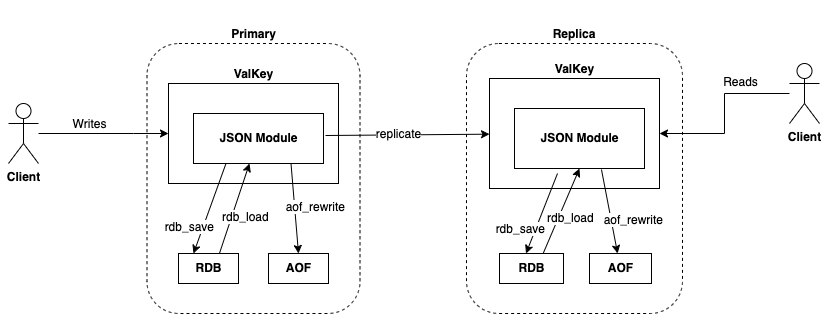
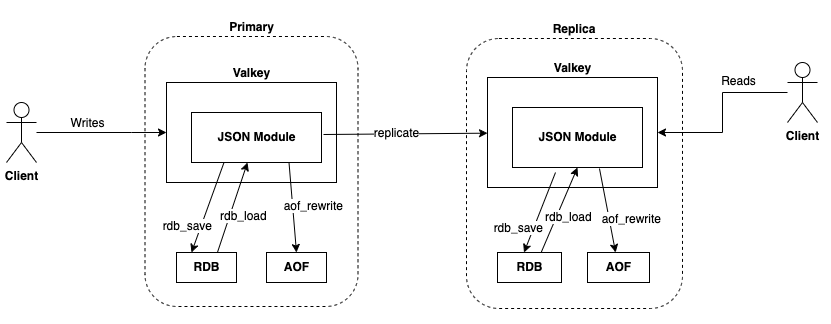
Updated based on review feedback

diff --git a/JSON.md b/JSON.md
@@ -3,76 +3,37 @@ RFC: 2
 Status: Proposed
 ---
 
-# ValKey JSON Module RFC
+# ValkeyJSON RFC
 
 ## Abstract
 
-The proposed ValKey JSON module supports the native JavaScript Object Notation (JSON) format to encode complex datasets inside 
-OSS ValKey. It is compliant with [RFC7159](http://www.ietf.org/rfc/rfc7159.txt) and [ECMA-404](http://www.ecma-international.org/publications/standards/Ecma-404.htm) 
+The proposed Valkey JSON module, named ValkeyJSON, supports the native JavaScript Object Notation (JSON) format to encode 
+complex datasets inside Valkey. It is compliant with [RFC7159](http://www.ietf.org/rfc/rfc7159.txt) and [ECMA-404](http://www.ecma-international.org/publications/standards/Ecma-404.htm) 
 JSON data interchange standard. With this feature, users can natively store, query, and modify JSON data structures in 
-ValKey using the popular [JSONPath query language](https://www.ietf.org/archive/id/draft-goessner-dispatch-jsonpath-00.html). 
-The module should be API-compatible and RDB-compatible with Redis Ltd.’s RedisJSON v2.
+Valkey using the popular [JSONPath query language](https://www.ietf.org/archive/id/draft-goessner-dispatch-jsonpath-00.html). 
+To help users migrate from Redis and RedisJSON, and to capitalize on existing RedisJSON client libraries, the module 
+is designed to be API-compatible and RDB-compatible with Redis Ltd.’s RedisJSON v2.
 
 ## Motivation
 
 JSON format is a widely used data exchange format and simplifies the development of applications that store complex data 
-structures by providing powerful searching and filtering capabilities. However, [ValKey core](https://github.com/valkey-io/valkey) 
+structures by providing powerful searching and filtering capabilities. However, [Valkey core](https://github.com/valkey-io/valkey) 
 does not have a native data type for JSON. Redis Ltd.‘s RedisJSON is a popular Redis modules, but not under a true 
-open source license and hence cannot be distributed freely with ValKey. There’s a demand in the ValKey 
+open source license and hence cannot be distributed freely with Valkey. There’s a demand in the Valkey 
 community to have a JSON module that matches most of the features of RedisJSON and is as API-compatible as possible. 
 See the community discussions [here](https://github.com/orgs/valkey-io/discussions?discussions_q=is%3Aopen+JSON).
 
 ## Design Considerations
 
-ValKey JSON module introduces a new JSON data type for ValKey, and commands to insert, update, delete and query JSON data. 
-The module should be API-compatible and RDB-compatible with Redis Ltd.’s RedisJSON v2. Users can natively store, query, 
-and modify JSON data structures, either wholly or partially, using the popular [JSONPath query language](https://www.ietf.org/archive/id/draft-goessner-dispatch-jsonpath-00.html).
+ValkeyJSON will introduce a new JSON data type for Valkey, and commands to insert, update, delete and query JSON data. 
+To help users migrate from Redis and RedisJSON, and to capitalize on existing RedisJSON client libraries, ValkeyJSON 
+aims to be a drop-in replacement of RedisJSON. Therefore, it is designed be API-compatible and RDB-compatible with 
+Redis Ltd.’s RedisJSON.
 
-![](./images/json_overview.png)
+### RDB Compatibility
 
-### Module OnLoad
-
-Upon loading, the module registers a new JSON data type. All operations such as query, insert, update and delete are 
-efficiently performed on the in-memory document objects, as opposed to JSON text.
-
-* Module name: json
-* JSON data type name: ReJSON-RL (Note: We use the same name as the one in RedisJSON for the sake of RDB compatibility.)
-
-### Persistence
-
-ValKey JSON module hooks into ValKey’s persistence API via the module type callbacks:
-
-* rdb_save: Serializes document objects to RDB. Serialized JSON string is saved in RDB.
-* rdb_load: Deserializes document objects from RDB.
-* aof_rewrite: Emits commands into the AOF during the AOF rewriting process.
-
-### Memory Management
-
-The JSON data type also supports memory management related callbacks:
-
-* free: Deallocates a key when it is deleted, expired or evicted.
-* defrag: Supports active defrag for JSON keys
-* mem_usage: Reports JSON document size (AKA “memory usage” command)
-* copy: Supports copy of JSON key
-
-### Replication
-
-Every JSON write command is replicated to replicas.
-
-### Keyspace Event Notification
-
-Every JSON write command publishes a keyspace event after the data is mutated.
-* Event type: REDISMODULE_NOTIFY_GENERIC
-* Event name: command name in lowercase. e.g., json.set command publishes event "json.set".
-
-Users can subscribe to the JSON events via the standard keyspace event pub/sub. For example,
-
-```text
-1. enable keyspace event notifications:
-    valkey-cli config set notify-keyspace-events KEA
-2. suscribe to keyspace & keyevent event channels:
-    valkey-cli psubscribe '__key*__:*'
-```
+To help users migrate from Redis and RedisJSON, ValkeyJSON will support RDB compatibility with RedisJSON. ValkeyJSON can 
+load RDBs generated from RedisJSON. Likewise, RedisJSON can load RDBs generated from ValkeyJSON.
 
 ### Choice of JSON Library
 
@@ -85,6 +46,7 @@ rest, RapidJSON stands out as both memory efficient and providing efficient inse
 [JSONPath](https://www.ietf.org/archive/id/draft-goessner-dispatch-jsonpath-00.html) is a query language for JSON with 
 features similar to XPath for XML. JSONPath is used for selecting and extracting elements from a JSON document. It 
 supports advanced query capabilities such as wildcard, filter expressions, slices, union, recursive search, etc.
+Using JSONPath query language, users can natively store, query, and modify JSON data structures, either wholly or partially.
 
 ![](./images/jsonpath_parser_design.png)
 
@@ -107,30 +69,8 @@ Member isWriteMode indicates READ/WRITE mode, which is automatically set based o
 which is getValues, setValues or deleteValues.
 
 Insert and update is implemented as a 2-phase operation that splits the write operation into two calls - prepareSetValues 
-and commit, where prepareSetValues does not change the ValKey data. The purpose of having a 2-phase write is to be able 
+and commit, where prepareSetValues does not change the Valkey data. The purpose of having a 2-phase write is to be able 
 to discard the write operation if certain conditions are not satisfied.
-
-### Root JSON Value
-
-In earlier RFC 4627, only objects or arrays were allowed as root values of JSON. Since [RFC 7159](http://www.ietf.org/rfc/rfc7159.txt), 
-the root value of a JSON document can be of any type, scalar type (String, Number, Boolean, Null) or container type (Array, Object). 
-ValKey JSON module is compliant with [RFC 7159](http://www.ietf.org/rfc/rfc7159.txt).
-
-### Document Size Limit
-
-JSON documents are stored internally in a format optimized for rapid access and modification. This format typically 
-results in consuming somewhat more memory than the equivalent serialized representation of the same document does. 
-The consumption of memory by a single JSON document is limited to 64MB by default, which is the size of the in-memory 
-data structure, not the serialized JSON string. The amount of memory consumed by a JSON document can be inspected by 
-using the “JSON.DEBUG MEMORY" or “MEMORY USAGE” command. “JSON.DEBUG MEMORY <key> [<path>]" can also report the size 
-of a JSON sub-tree.
-
-
-### Nesting Depth Limit
-
-When a JSON object or array has an element that is itself another JSON object or array, that inner object or array is 
-said to “nest” within the outer object or array. The nesting depth is limited to 128 by default. Any attempt to 
-create a document that contains a nesting depth greater than 128 will be rejected with an error message.
 
 ### Tokenization of JSON Object Keys
 
@@ -149,6 +89,12 @@ called KeyTable, which is a sharded hash table storing key tokens and reference 
 
 [RFC7159](http://www.ietf.org/rfc/rfc7159.txt) and [ECMA-404](http://www.ecma-international.org/publications/standards/Ecma-404.htm) 
 JSON data interchange standard is supported. UTF-8 Unicode in JSON text is supported.
+
+### Root JSON Value
+
+In earlier RFC 4627, only objects or arrays were allowed as root values of JSON. Since [RFC 7159](http://www.ietf.org/rfc/rfc7159.txt), 
+the root value of a JSON document can be of any type, scalar type (String, Number, Boolean, Null) or container type (Array, Object). 
+ValkeyJSON is compliant with [RFC 7159](http://www.ietf.org/rfc/rfc7159.txt).
 
 ### JSON Command API
 
@@ -171,7 +117,7 @@ For details and examples, see https://docs.aws.amazon.com/memorydb/latest/devgui
 
 ### ACL
 
-ValKey JSON module introduces a new ACL category - @json. The category has 22 JSON commands. No existing ValKey commands 
+ValkeyJSON introduces a new ACL category - @json. The category has 22 JSON commands. No existing Valkey commands 
 are members of the @json category. 
 
 There are 4 existing ACL categories which are updated to include new JSON commands: @read, @write, @fast, @slow. The 
@@ -192,6 +138,74 @@ Info metrics are visible through the “info json” or “info modules” comma
 ### Configs
 
 ![](./images/json_configs.png)
+
+### Document Size Limit
+
+JSON documents are stored internally in a format optimized for rapid access and modification. This format typically 
+results in consuming somewhat more memory than the equivalent serialized representation of the same document does. 
+The consumption of memory by a single JSON document is limited to 64MB by default, which is the size of the in-memory 
+data structure, not the serialized JSON string. The value can be overridden by module config json.max-document-size.
+
+The amount of memory consumed by a JSON document can be inspected by 
+using the “JSON.DEBUG MEMORY" or “MEMORY USAGE” command. “JSON.DEBUG MEMORY <key> [<path>]" can also report the size 
+of a JSON sub-tree.
+
+### Nesting Depth Limit
+
+When a JSON object or array has an element that is itself another JSON object or array, that inner object or array is 
+said to “nest” within the outer object or array. To avoid stack overflow, it's good to have a limit on the nesting depth.
+The default path limit is 128 levels. Any attempt to create a document that contains a nesting depth greater than 128 
+will be rejected with an error message. The value can be overridden by module config json.max-path-limit.
+
+### Module API
+
+ValkeyJSON integrates with Valkey core by implementing Valkey module API.
+
+![](./images/json_overview.png)
+
+#### Module OnLoad
+
+Upon loading, the module registers a new JSON data type. All operations such as query, insert, update and delete are 
+efficiently performed on the in-memory document objects, as opposed to JSON text.
+
+* Module name: json
+* JSON data type name: ReJSON-RL (Note: We use the same name as the one in RedisJSON for the sake of RDB compatibility.)
+
+#### Persistence
+
+ValkeyJSON hooks into Valkey’s persistence API via the module type callbacks:
+
+* rdb_save: Serializes document objects to RDB. Serialized JSON string is saved in RDB.
+* rdb_load: Deserializes document objects from RDB.
+* aof_rewrite: Emits commands into the AOF during the AOF rewriting process.
+
+#### Memory Management
+
+The JSON data type also supports memory management related callbacks:
+
+* free: Deallocates a key when it is deleted, expired or evicted.
+* defrag: Supports active defrag for JSON keys
+* mem_usage: Reports JSON document size (AKA “memory usage” command)
+* copy: Supports copy of JSON key
+
+#### Keyspace Event Notification
+
+Every JSON write command publishes a keyspace event after the data is mutated.
+* Event type: REDISMODULE_NOTIFY_GENERIC
+* Event name: command name in lowercase. e.g., json.set command publishes event "json.set".
+
+Users can subscribe to the JSON events via the standard keyspace event pub/sub. For example,
+
+```text
+1. enable keyspace event notifications:
+    valkey-cli config set notify-keyspace-events KEA
+2. suscribe to keyspace & keyevent event channels:
+    valkey-cli psubscribe '__key*__:*'
+```
+
+#### Replication
+
+Every JSON write command is replicated to replicas by calling ValkeyModule_ReplicateVerbatim.
 
 ## References
 
